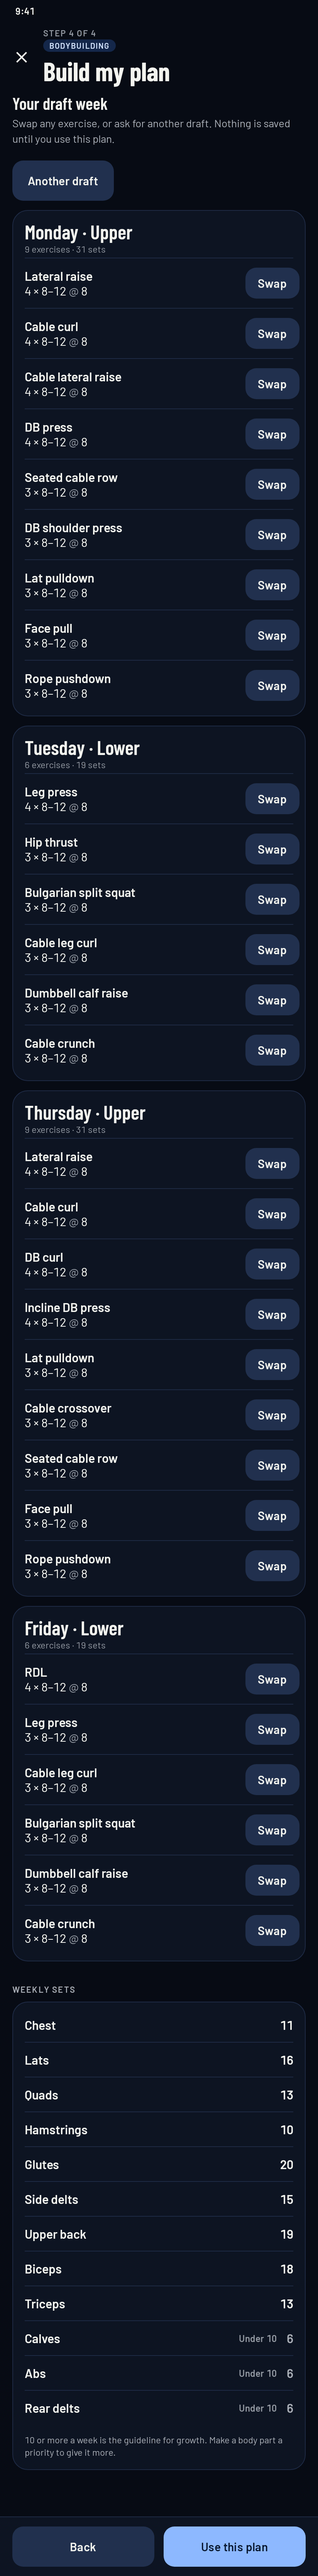
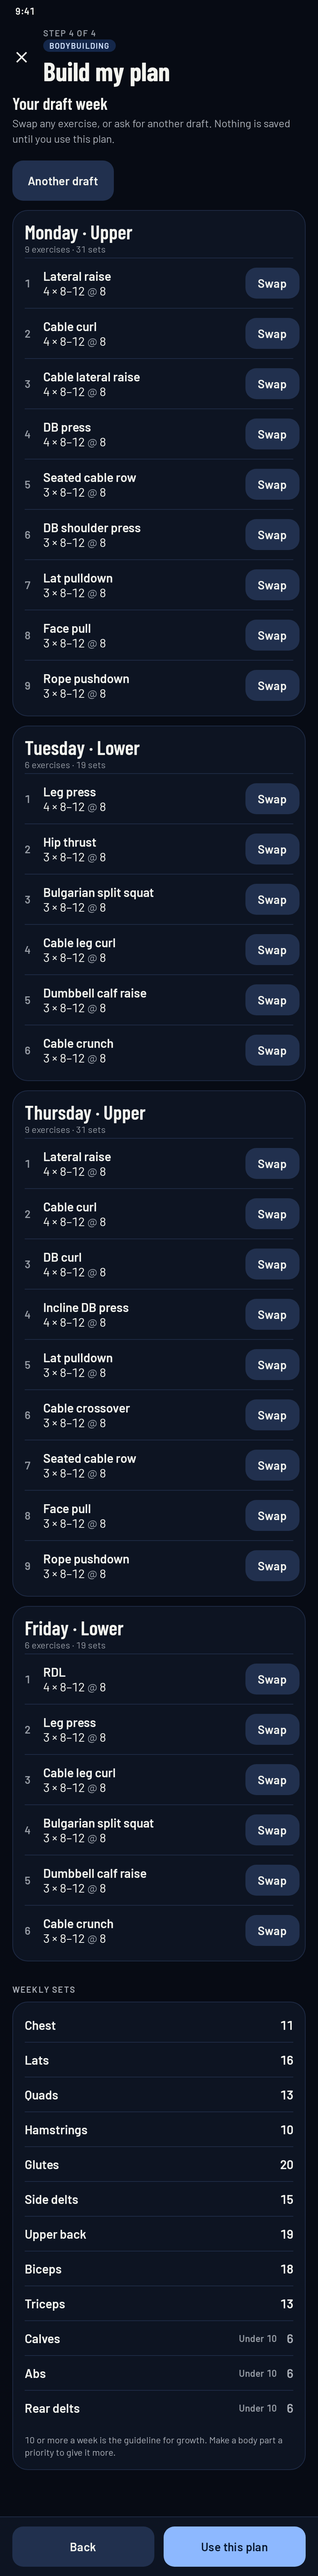
fix(app): the plan builder's draft rows show their position, as on the web
Each draft row starts with its place in the session (1, 2, 3, ...), in the
same place and style as the Plan screen's rows. Adds a test that a built
plan is what Today shows on its first training day. Regenerates the two
draft screenshots.

Claude-Session: https://claude.ai/code/session_01KboHw6FdBYrNDSMx1QWyzy

Changed region(s): [[0.0607, 0.4372, 0.3641, 0.7495], [0.0607, 0.0937, 0.3337, 0.2811], [0.0607, 0.3123, 0.3641, 0.406]]

diff --git a/app/src/test/kotlin/com/powertracker/ui/plan/builder/PlanBuilderScreenTest.kt b/app/src/test/kotlin/com/powertracker/ui/plan/builder/PlanBuilderScreenTest.kt
@@ -195,6 +195,69 @@ class PlanBuilderScreenTest {
         assertTrue(runBlocking { training.plan(BODYBUILDING).first() }.isNotEmpty())
     }
 
+    /** From the days step to the draft, with the days as they start (Mon, Wed, Fri) and nothing changed on the way. */
+    private fun toDraft() {
+        waitFor { says(DAYS_HEADING) }
+        next()
+        waitFor { says(CHOOSE_FOR_ME) }
+        next()
+        waitFor { says(BODY_PARTS_HEADING) }
+        next()
+        waitFor { says(DRAFT_HEADING) }
+    }
+
+    private val defaultDraft get() = com.powertracker.domain.plan.PlanBuilder.build(
+        com.powertracker.domain.plan.BuilderAnswers(listOf(DayOfWeek.MONDAY, DayOfWeek.WEDNESDAY, DayOfWeek.FRIDAY), emptyList(), emptyList()),
+    )
+
+    // Parity with the web draft (final review, minor 1): each row starts with its place in the session, 1, 2, 3, ...,
+    // as the Plan screen's rows do.
+    @Test
+    fun draft_eachRowShowsItsPositionBeforeItsName() {
+        compose.setContent { PowertrackerTheme { PlanBuilderScreen(training, settings, onClose = {}, onSaved = {}, today = { today }) } }
+        toDraft()
+        val monday = defaultDraft.sessions.first { it.day == DayOfWeek.MONDAY }
+        val card = androidx.compose.ui.test.hasAnyAncestor(hasTestTag("session-MONDAY"))
+        monday.exercises.forEachIndexed { i, exercise ->
+            val position = compose.onAllNodes(hasText("${i + 1}") and card).fetchSemanticsNodes()
+            assertEquals("one position ${i + 1} on Monday", 1, position.size)
+            val name = compose.onAllNodes(hasText(exercise.name) and card).fetchSemanticsNodes().single()
+            val p = position.single().boundsInRoot
+            val n = name.boundsInRoot
+            assertTrue("${i + 1} sits left of ${exercise.name}", p.right <= n.left)
+            assertTrue("${i + 1} is on ${exercise.name}'s row", p.top < n.bottom + 40f && p.bottom > n.top - 40f)
+        }
+        assertTrue(compose.onAllNodes(hasText("${monday.exercises.size + 1}") and card).fetchSemanticsNodes().isEmpty())
+    }
+
+    // Final review, minor 3: a built plan is what Today shows on that plan's first training day.
+    @Test
+    fun aBuiltPlan_isWhatTodayShowsOnItsFirstTrainingDay() {
+        val monday = LocalDate(2026, 11, 9)
+        var built by androidx.compose.runtime.mutableStateOf(false)
+        compose.setContent {
+            PowertrackerTheme(mode = BODYBUILDING) {
+                if (!built) PlanBuilderScreen(training, settings, onClose = {}, onSaved = { built = true }, today = { monday })
+                else com.powertracker.ui.today.TodayScreen(training, advice, settings, onOpenCoach = {}, today = { monday })
+            }
+        }
+        toDraft()
+        compose.onNodeWithText(USE_THIS_PLAN).performClick()
+        waitFor { built }
+        val first = defaultDraft.sessions.first().also { assertEquals(DayOfWeek.MONDAY, it.day) }
+        val lead = first.exercises.first()
+        val dose = "${lead.sets} × ${lead.repsLow}–${lead.repsHigh} @ ${lead.rpe.toInt()}"
+        assertEquals("4 × 8–12 @ 8", dose)
+        waitFor { says(lead.name) && says(dose) }
+        assertTrue(says("Ready to train?"))
+        val name = compose.onNodeWithText(lead.name).fetchSemanticsNode().boundsInRoot
+        val line = compose.onNodeWithText(dose).fetchSemanticsNode().boundsInRoot
+        assertTrue("${lead.name}'s row shows $dose", line.top < name.bottom && line.bottom > name.top)
+        // The rest of Monday follows, each with its 8–12 range.
+        for (e in first.exercises.drop(1)) assertTrue(e.name, says(e.name))
+        assertEquals(first.exercises.size, compose.onAllNodes(androidx.compose.ui.test.hasText("8–12 @ 8", substring = true)).fetchSemanticsNodes().size)
+    }
+
     @Test
     fun overAnExistingPlan_useThisPlanAsksFirst() {
         val curl = runBlocking { training.exercises().first() }.first { it.name == "Curl" }

diff --git a/app/src/main/kotlin/com/powertracker/ui/plan/builder/PlanBuilderScreen.kt b/app/src/main/kotlin/com/powertracker/ui/plan/builder/PlanBuilderScreen.kt
@@ -12,6 +12,7 @@ import androidx.compose.foundation.layout.fillMaxWidth
 import androidx.compose.foundation.layout.heightIn
 import androidx.compose.foundation.layout.navigationBarsPadding
 import androidx.compose.foundation.layout.padding
+import androidx.compose.foundation.layout.width
 import androidx.compose.foundation.lazy.LazyColumn
 import androidx.compose.foundation.lazy.items
 import androidx.compose.foundation.lazy.rememberLazyListState
@@ -396,15 +397,15 @@ private fun SessionCard(session: DraftSession, modifier: Modifier = Modifier, on
             Text("${dayName(session.day)} · ${session.title}", style = MaterialTheme.typography.headlineMedium, modifier = Modifier.semantics { heading() })
             Text("${session.exercises.size} exercises · $sets sets", style = MaterialTheme.typography.bodySmall, color = PowertrackerTheme.colors.muted)
         }
-        for (exercise in session.exercises) {
+        session.exercises.forEachIndexed { i, exercise ->
             HorizontalDivider(Modifier.padding(end = Space.s), color = PowertrackerTheme.colors.hairline)
-            DraftRow(exercise, onSwap = { onSwap(exercise.name) })
+            DraftRow(i + 1, exercise, onSwap = { onSwap(exercise.name) })
         }
     }
 }
 
 @Composable
-private fun DraftRow(exercise: DraftExercise, onSwap: () -> Unit) {
+private fun DraftRow(position: Int, exercise: DraftExercise, onSwap: () -> Unit) {
     val scheme = MaterialTheme.colorScheme
     val muted = PowertrackerTheme.colors.muted
     val prescription = buildAnnotatedString {
@@ -413,6 +414,8 @@ private fun DraftRow(exercise: DraftExercise, onSwap: () -> Unit) {
         append(formatRpe(exercise.rpe))
     }
     Row(Modifier.fillMaxWidth().heightIn(min = 64.dp), verticalAlignment = Alignment.CenterVertically) {
+        // Its place in the session, as on the Plan screen's rows.
+        Text(position.toString(), style = MaterialTheme.typography.titleSmall, color = muted, modifier = Modifier.width(24.dp))
         Column(Modifier.weight(1f).padding(vertical = Space.s)) {
             Text(exercise.name, style = MaterialTheme.typography.titleMedium, color = scheme.onSurface)
             Text(prescription, style = MaterialTheme.typography.bodyLarge, color = scheme.onSurface)
